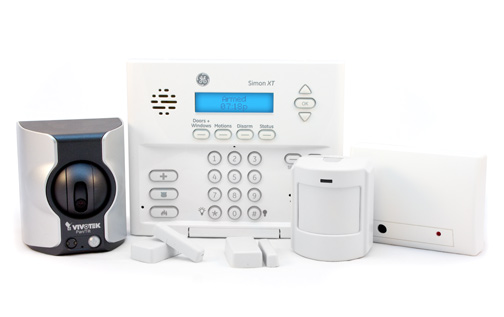
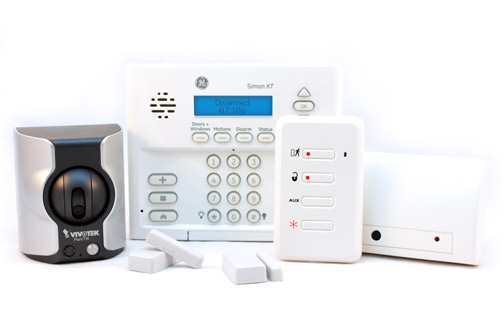
changed business package

Changed region(s): [[0.0, 0.2271, 0.9524, 0.9085], [0.2976, 0.4543, 0.3571, 0.4826]]

diff --git a/src/templates/packages/business.html b/src/templates/packages/business.html
@@ -12,46 +12,46 @@
             <li>1 Interactive Video Camera</li>
             <li>2 Door / Window Sensors</li>
             <li>1 Glass Break Sensor</li>
-            <li>1 Motion Detector</li>
+            <li>1 Secret Keypad</li>
             <li>3 Security Stickers</li>
             <li>Owner's Manual</li>
         </ul>
         <div id="top-consumer-review-medal">
-            <img src="/static/img/external/top-consumer-reviews/top-consumer-five-star-transparent.png" width="78" height="76" alt="Rated 5-Stars by Top Consumer Reviews" />
+            <img src="{{ STATIC_URL }}img/external/top-consumer-reviews/top-consumer-five-star-transparent.png" width="78" height="76" alt="Rated 5-Stars by Top Consumer Reviews" />
             <p>Five star rating in 2012 by TopConsumerReviews.com</p>
         </div>
         <span class="upfront-price">Upfront Price: <strong itemprop="price"><sup>$</sup>99</strong></span>
-        <span class="monthly-price">Monthly Price: <strong itemprop="price"><sup>$</sup>50<sup class="cents">99</sup></strong></span>
+        <span class="monthly-price">Monthly Price: <strong itemprop="price"><sup>$</sup>44<sup class="cents">99</sup></strong></span>
 
     </div>
     {% include "order/quote-form.html" with form=forms.basic %}
 </div>
 <div class="clear"></div>
 <div id="included-equipment">
-	<h2>What's Included:</h2>
+    <h2>What's Included:</h2>
     <div>
-		<img src="/static/img/products/security-panels/simon-xt-icon.jpg" width="160" height="131" alt="GE Simon XT Security Control Panel" />
-		<strong>One (1)</strong> Simon XT Control Panel
-	</div>
-	<div>
-		<img src="/static/img/products/equipment/door-window-sensor-icon.jpg" width="160" height="131" alt="Door / Window Business Security Sensor" />
-		<strong>Two (2)</strong> Door Sensors
-		</div>
-		<div>
-   		<img src="/static/img/products/equipment/motion-detector-icon.jpg" width="160" height="131" alt="Business Security Motion Detector" />
-		<strong>One (1)</strong> Motion Detector
+        <img src="{{ STATIC_URL }}img/products/security-panels/simon-xt-icon.jpg" width="160" height="131" alt="GE Simon XT Security Control Panel" />
+        <strong>One (1)</strong> Simon XT Control Panel
     </div>
+    <div>
+        <img src="{{ STATIC_URL }}img/products/equipment/door-window-sensor-icon.jpg" width="160" height="131" alt="Door / Window Business Security Sensor" />
+        <strong>Two (2)</strong> Door Sensors
+        </div>
     <div>
         <img src="{{ STATIC_URL }}img/products/equipment/interactive-video-camera-icon.jpg" width="160" height="131" alt="Protect America Home Security Installation Manual" />
         <strong>One (1)</strong> Interactive Video Camera
     </div>
-	<div>	
-		<img src="{{ STATIC_URL }}img/products/equipment/glass-break-detector/glass-break-sensor-icon.jpg" width="160" height="131" alt="Glass Break Sensor" />
-		<strong>One (1)</strong> Glass Break Sensor
+    <div>   
+        <img src="{{ STATIC_URL }}img/products/equipment/glass-break-detector/glass-break-sensor-icon.jpg" width="160" height="131" alt="Glass Break Sensor" />
+        <strong>One (1)</strong> Glass Break Sensor
     </div>
     <div>
-		<img src="/static/img/products/accessories/security-window-stickers-icon.jpg" width="160" height="131" alt="Protect America Home Security Window Stickers" />
-		<strong>Three (3)</strong> Security Window Stickers
+        <img src="{{ STATIC_URL }}img/products/equipment/motion-detector-icon.jpg" width="160" height="131" alt="Business Security Motion Detector" />
+        <strong>One (1)</strong> Secret Keypad
+    </div>
+    <div>
+        <img src="{{ STATIC_URL }}img/products/accessories/security-window-stickers-icon.jpg" width="160" height="131" alt="Protect America Home Security Window Stickers" />
+        <strong>Three (3)</strong> Security Window Stickers
     </div>
 
 </div>
@@ -66,7 +66,7 @@
         <div id="door-protection">
             <img src="{{ STATIC_URL }}img/products/equipment/door-window-sensor/door-window-sensor-240x240.jpg" alt="Door / Window Sensor" width="240" height="240" />
             <h3>Break-In Security Protection</h3>
-            <p>The front and back entrances of your business are protected from attempted break-ins by 2 door and window sensors. If a criminal tries to enter your business through a monitored door, the alarm will be triggered. If somehow they break in another way, the motion sensor will trigger an alarm from the inside if motion is detected. </p>
+            <p>The front and back entrances of your business are protected from attempted break-ins by 2 door and window sensors. If a criminal tries to enter your business through a monitored door, the alarm will be triggered. </p>
         </div>
         <div id="window-protection">
             <img src="{{ STATIC_URL }}img/products/equipment/glass-break-detector/glassbreak-detector-med.jpg" alt="Glassbreak Detector" width="240" />
